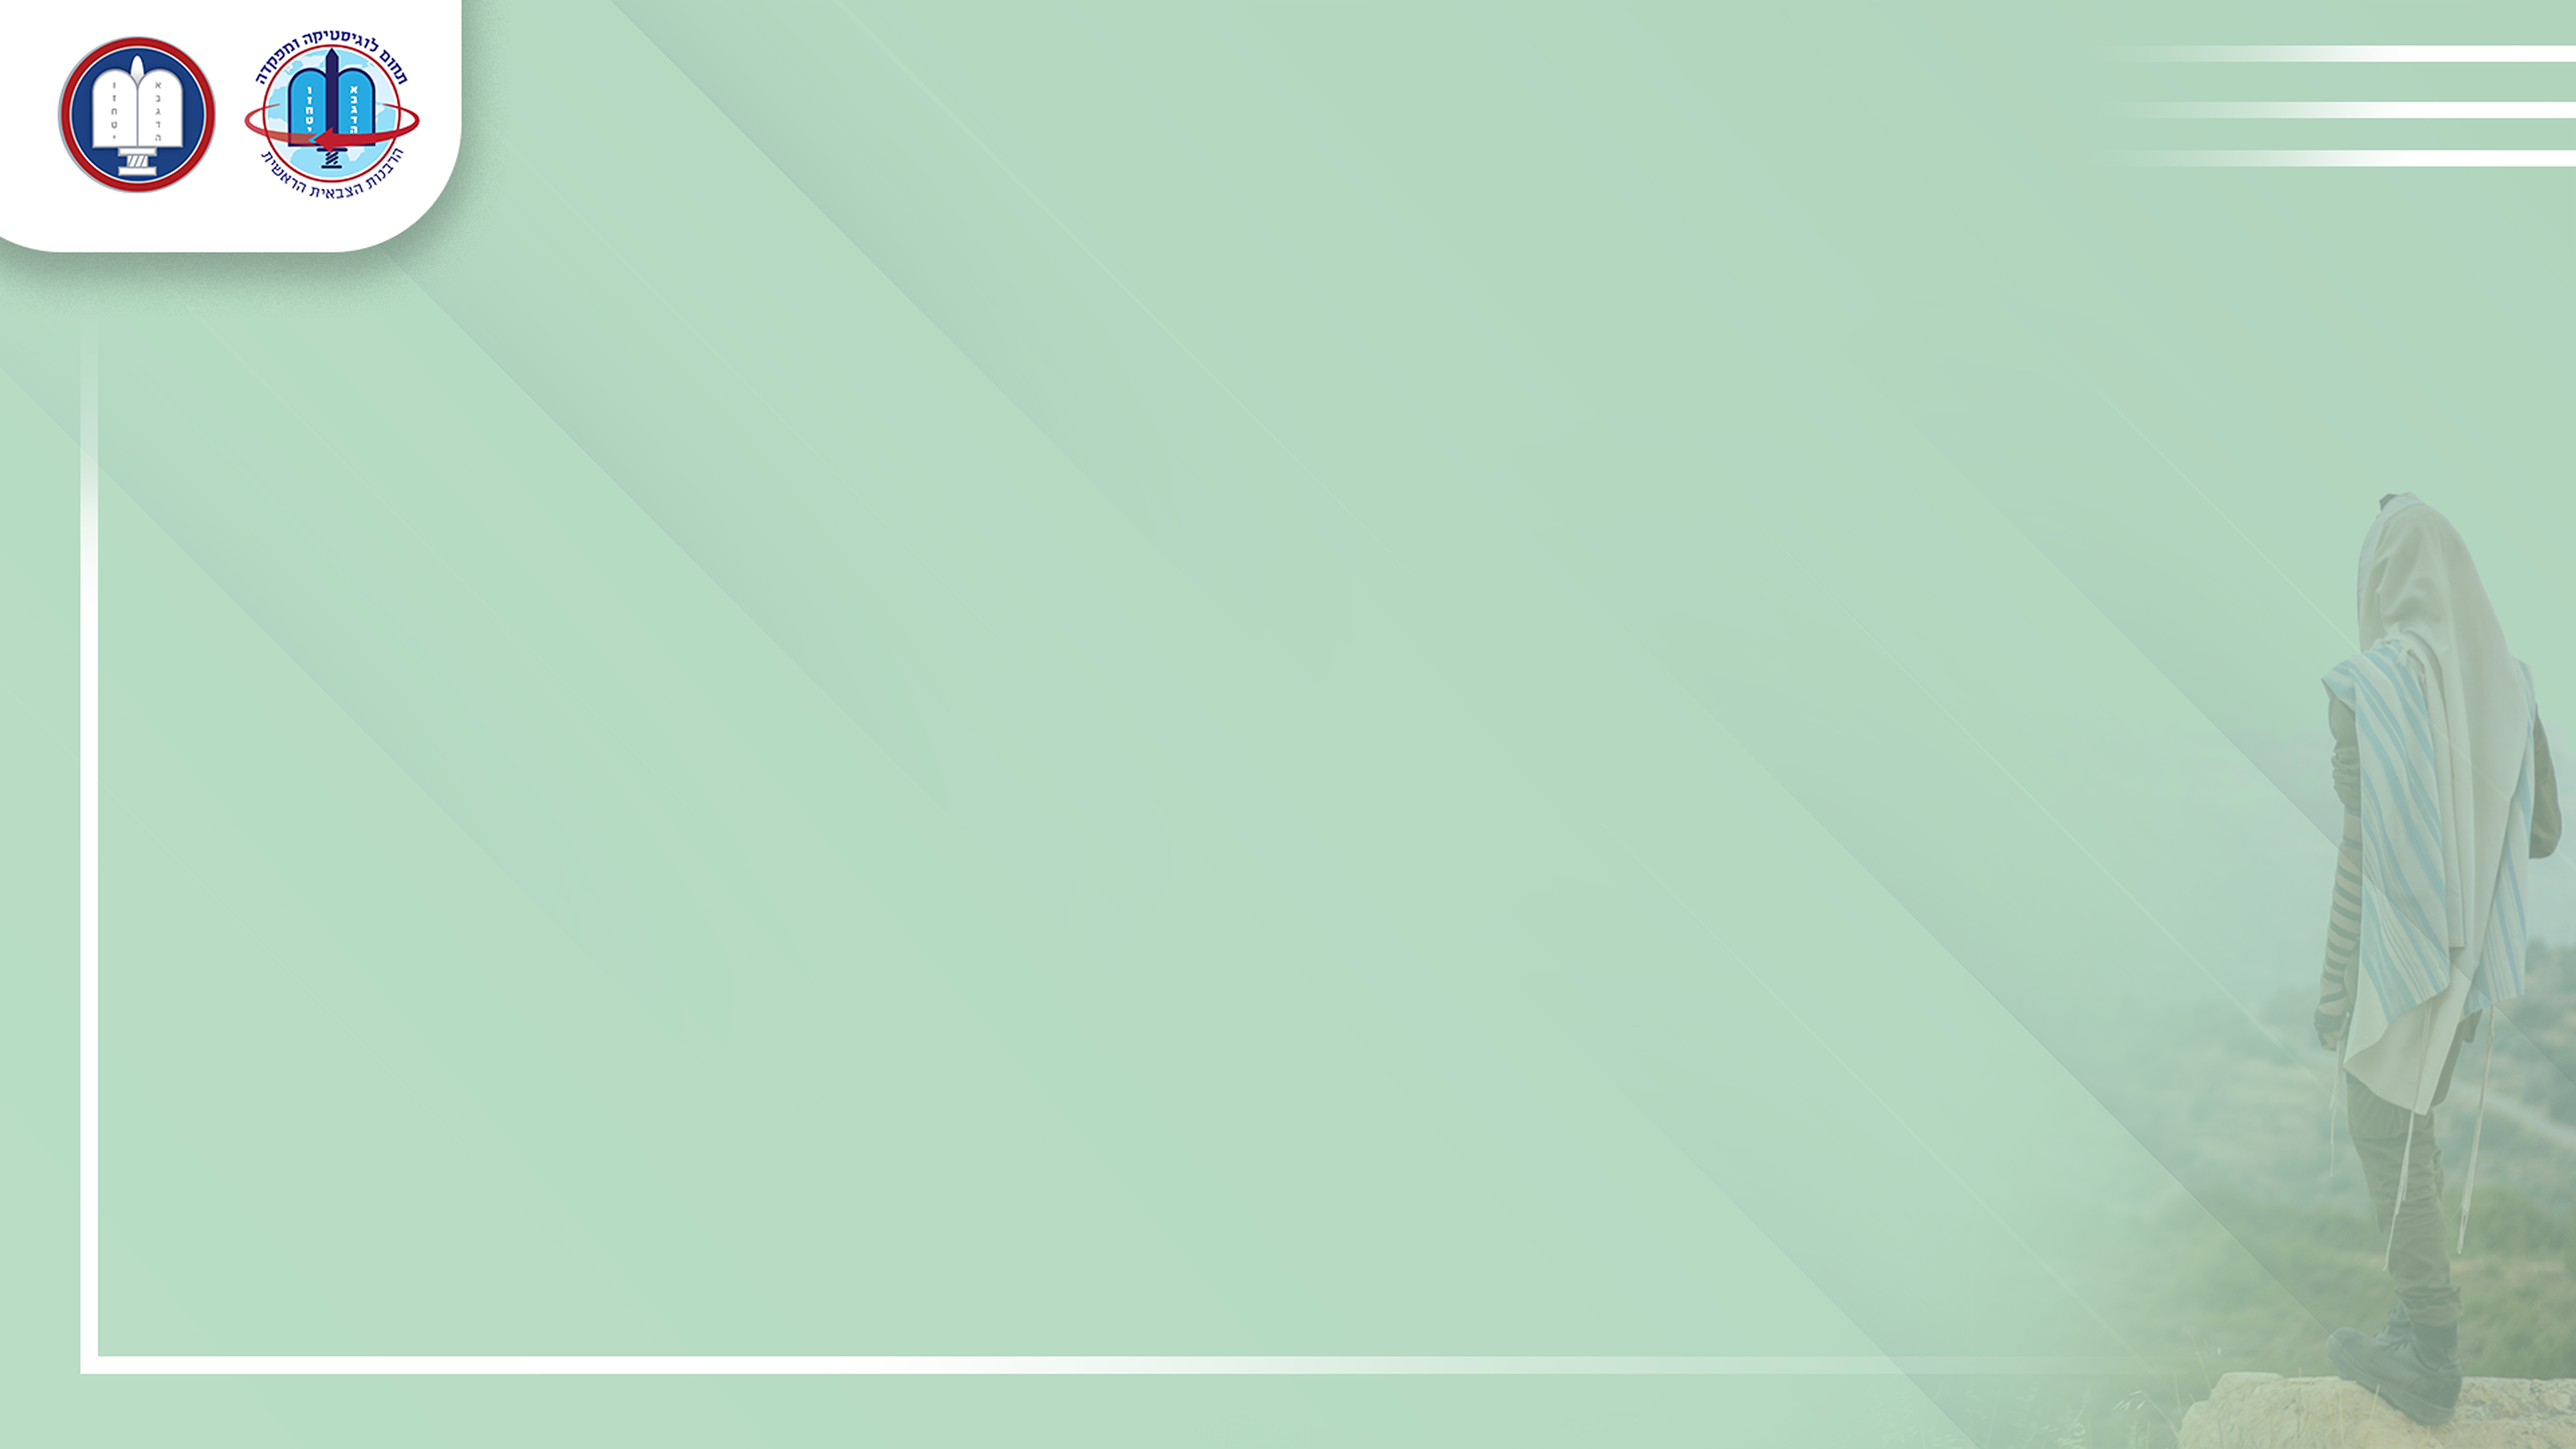
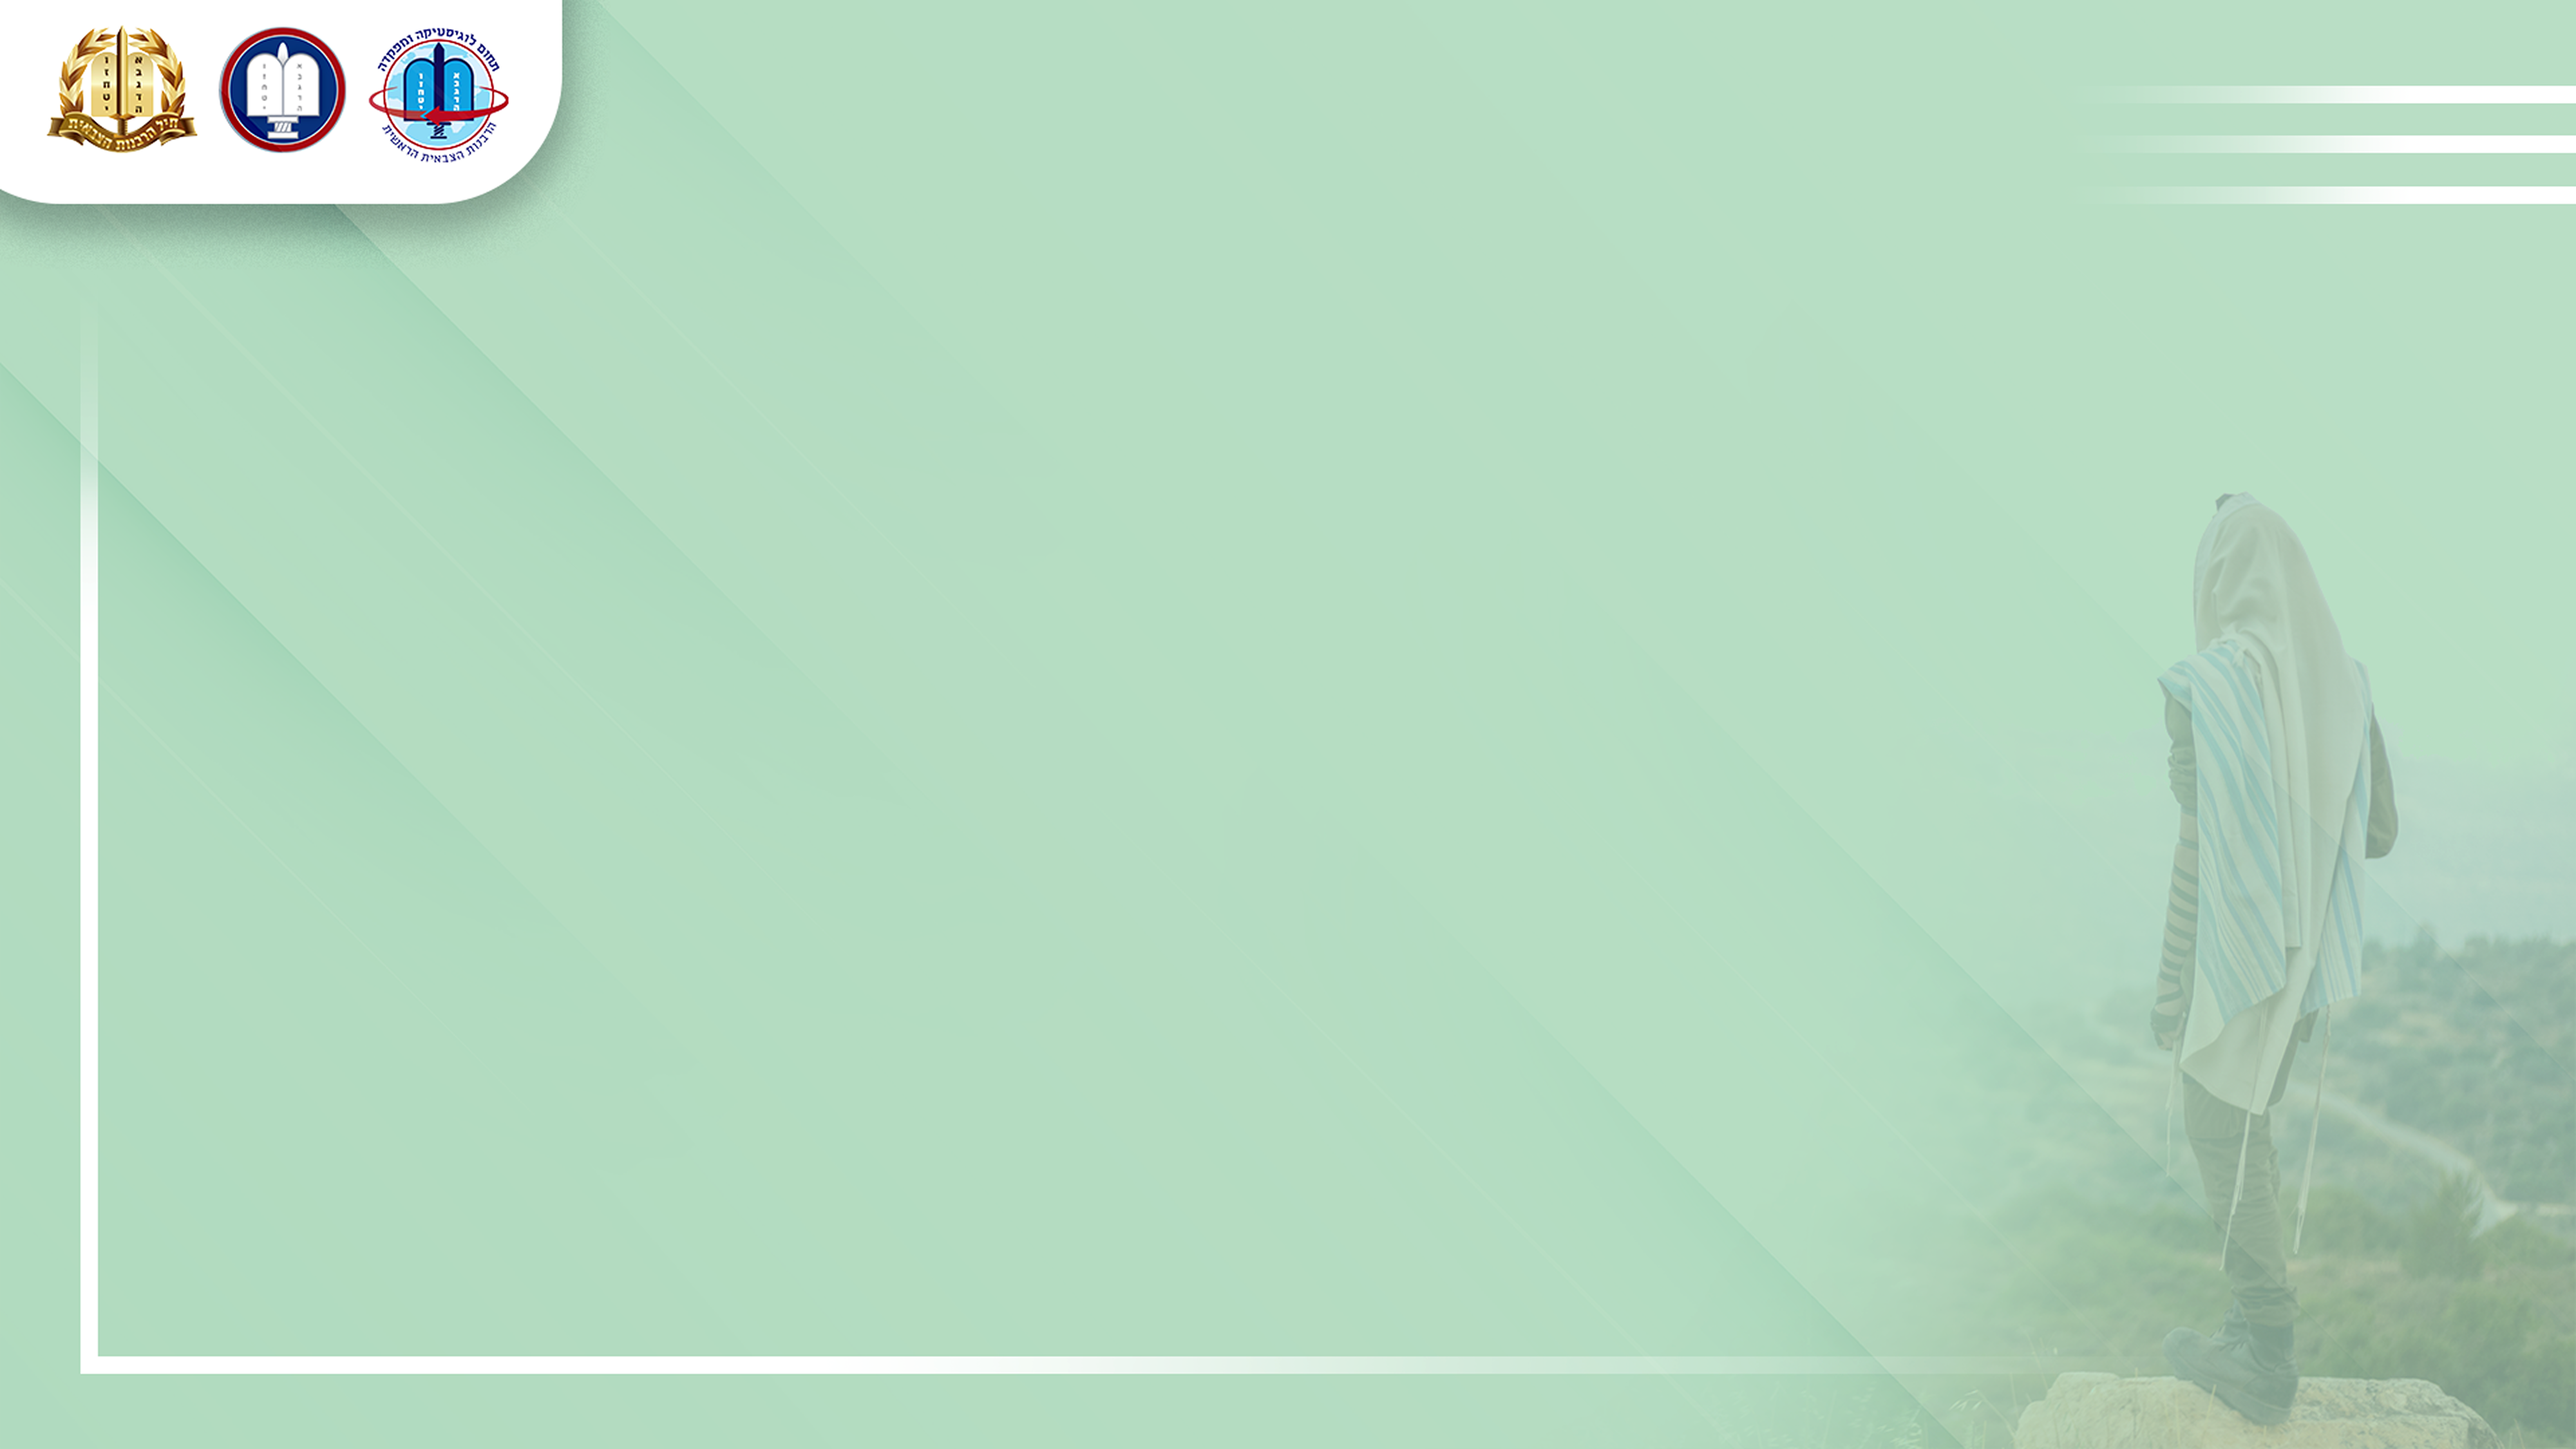
Update synagogue prayer titles and styling

diff --git a/public/welcome1/index.html b/public/welcome1/index.html
@@ -54,7 +54,7 @@
       </div>
       <div class="div-7">
         <div class="div-8">
-          <div class="text-wrapper-9">זמני תפילה שורה</div>
+          <div class="text-wrapper-9">זמני תפילה בית הכנסת<br /><span class="prayer-location">מחנה שורה</span></div>
           <div class="frame-wrapper">
             <div class="div-9">
               <div class="text-wrapper-10">שחרית 07:00</div>
@@ -65,7 +65,7 @@
           </div>
         </div>
         <div class="div-8">
-          <div class="text-wrapper-9">זמני תפילה רב"ץ</div>
+          <div class="text-wrapper-9">זמני תפילה בית הכנסת<br /><span class="prayer-location">רבנות צבאית</span></div>
           <div class="frame-wrapper">
             <div class="div-9">
               <div class="text-wrapper-10">שחרית 07:00</div>

diff --git a/public/welcome1/style.css b/public/welcome1/style.css
@@ -237,17 +237,25 @@
 }
 
 .frame .text-wrapper-9 {
-  position: relative;
-  align-self: stretch;
-  margin-top: -1.02px;
-  font-family: "Ploni ML v2 AAA-Bold", Helvetica;
-  font-size: 80.5px;
-  text-align: left;
-  line-height: 80.5px;
+  width: 549px;
+  height: 96px;
+  font-family: 'Ploni ML v2 AAA', Helvetica;
+  font-style: normal;
   font-weight: 700;
-  color: #1c4080;
-  letter-spacing: 0;
+  font-size: 60px;
+  line-height: 45px;
+  text-align: center;
+  color: #1C4080;
+  flex: none;
+  order: 0;
+  flex-grow: 0;
+  position: relative;
   direction: rtl;
+}
+
+.frame .text-wrapper-9 .prayer-location {
+  font-size: 48px;
+  line-height: 36px;
 }
 
 .frame .frame-wrapper {

diff --git a/ecosystem.config.js b/ecosystem.config.js
@@ -21,3 +21,5 @@ module.exports = {
   }]
 };
 
+
+
